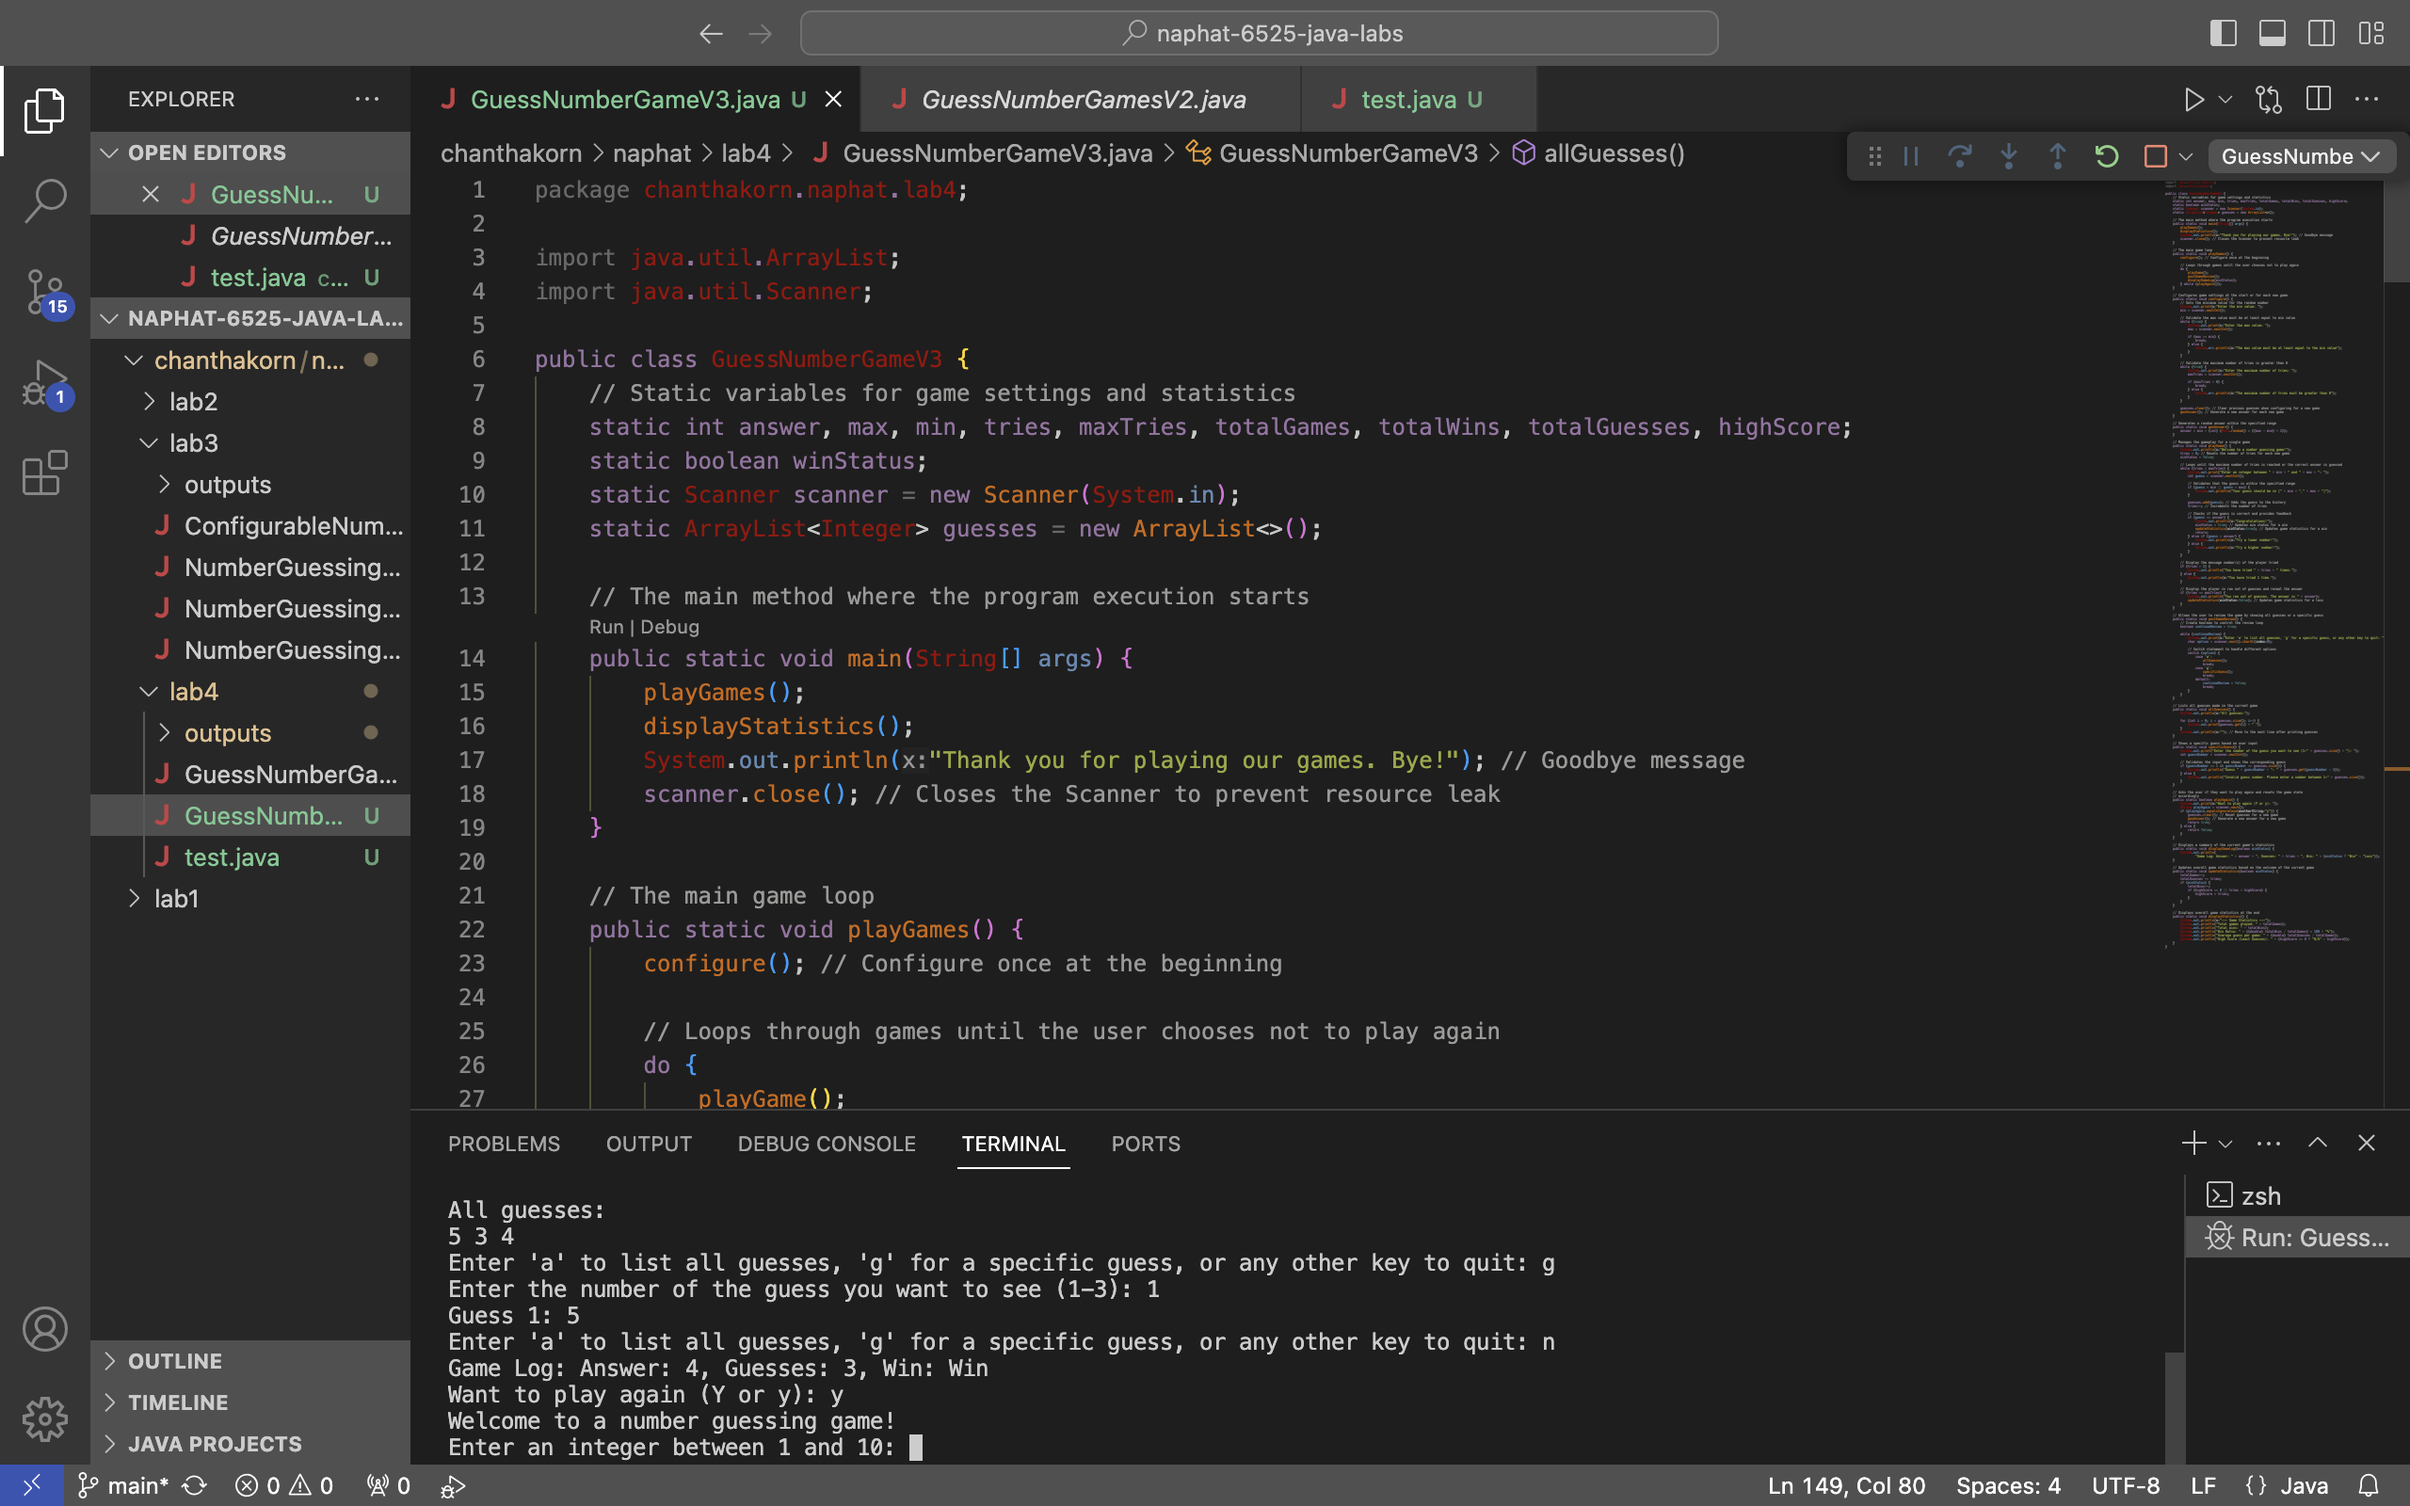
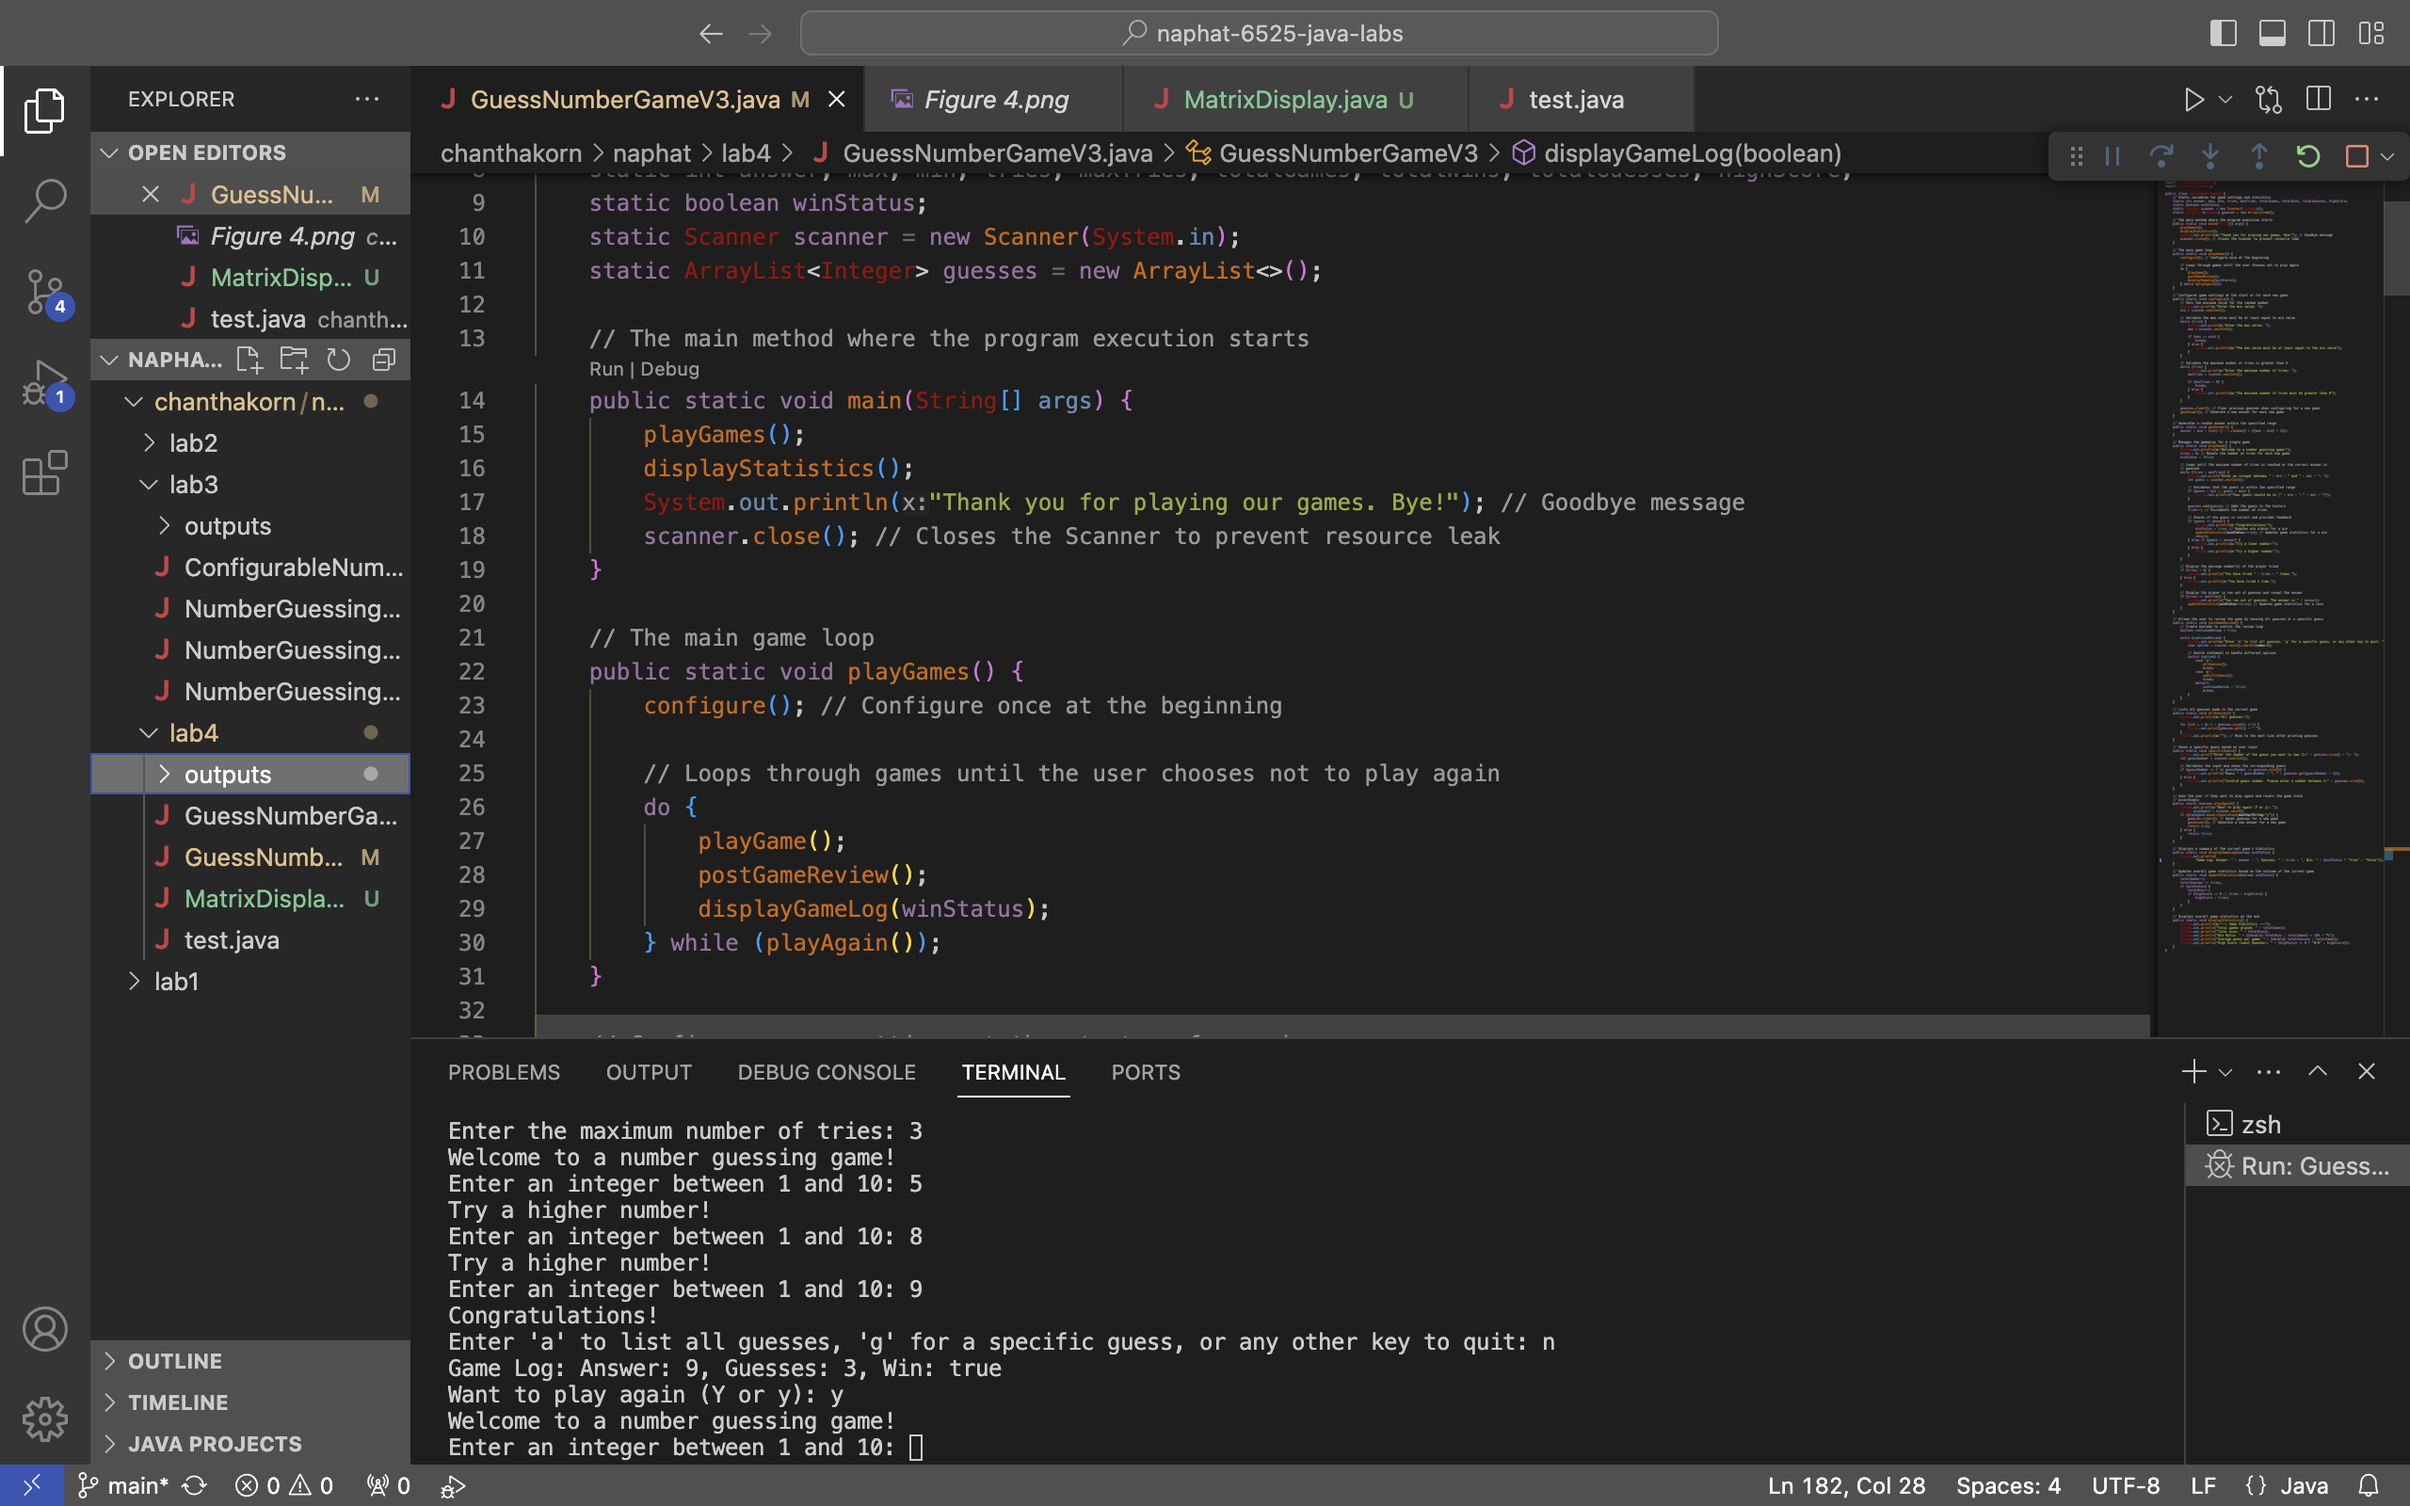
upload outputs & edit code

diff --git a/chanthakorn/naphat/lab4/GuessNumberGameV3.java b/chanthakorn/naphat/lab4/GuessNumberGameV3.java
@@ -180,7 +180,7 @@ public class GuessNumberGameV3 {
     // Displays a summary of the current game's statistics
     public static void displayGameLog(boolean winStatus) {
         System.out.println(
-                "Game Log: Answer: " + answer + ", Guesses: " + tries + ", Win: " + (winStatus ? "Win" : "Loss"));
+                "Game Log: Answer: " + answer + ", Guesses: " + tries + ", Win: " + (winStatus ? "true" : "false"));
     }
 
     // Updates overall game statistics based on the outcome of the current game

diff --git a/chanthakorn/naphat/lab4/MatrixDisplay.java b/chanthakorn/naphat/lab4/MatrixDisplay.java
@@ -1,0 +1,5 @@
+package chanthakorn.naphat.lab4;
+
+public class MatrixDisplay {
+    
+}
